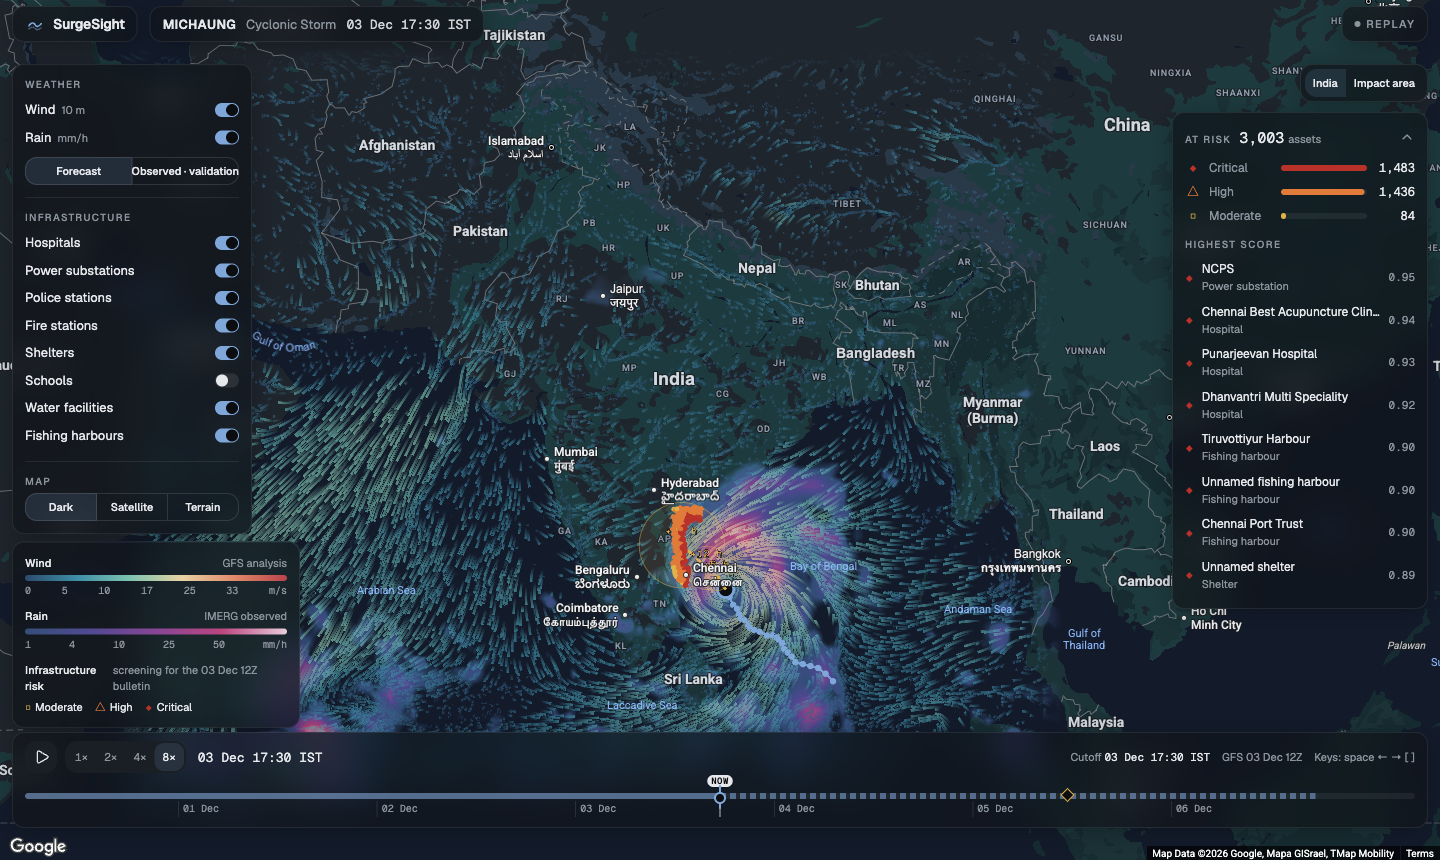
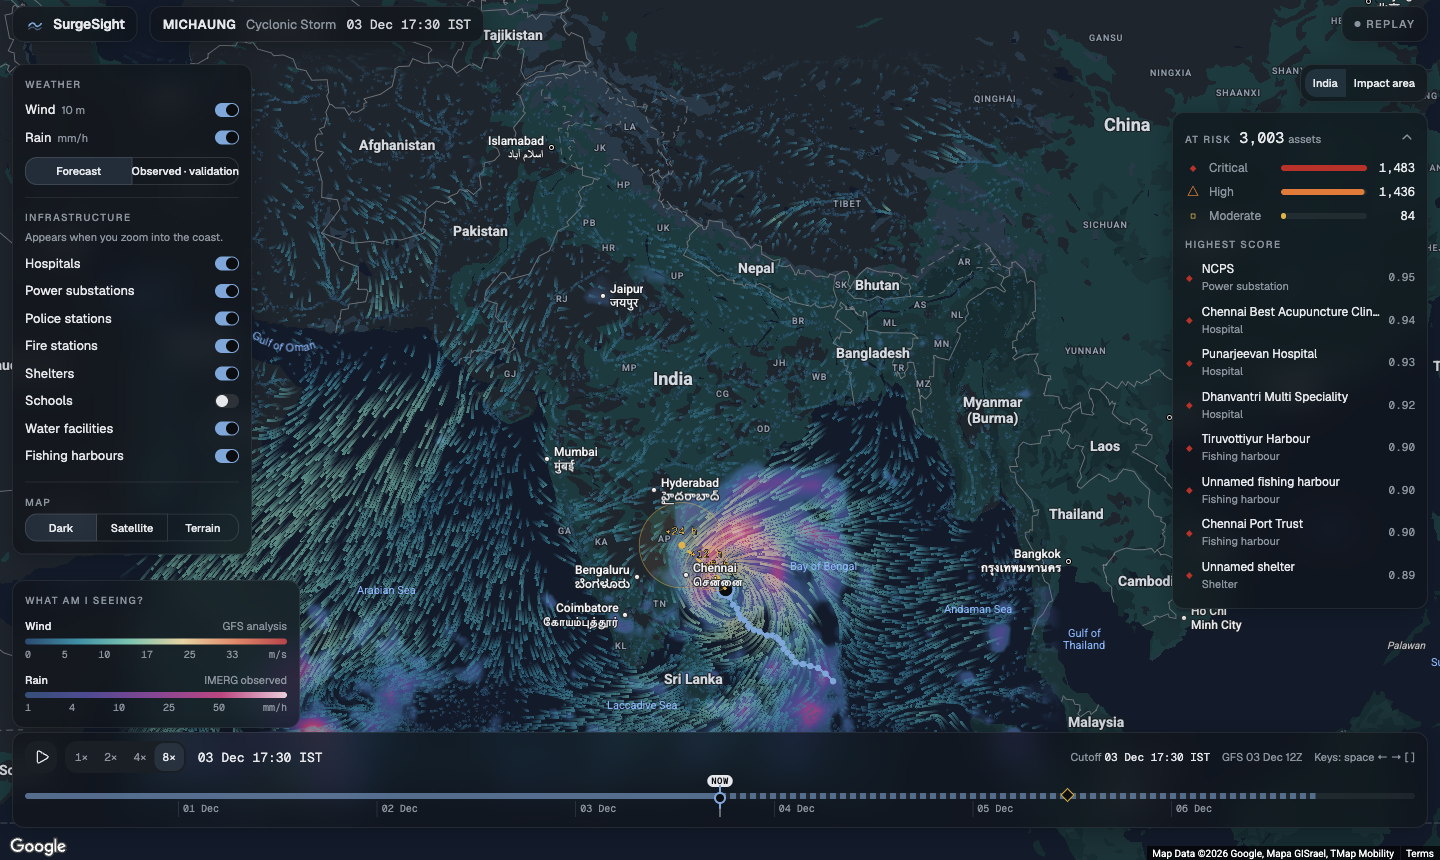
feat(web): free zoom and pan inside the national boundary, hide infrastructure until zoomed in, one key for the map
The plan now puts more storms (W6) after the first deploy.

diff --git a/frontend/src/map/MapCanvas.tsx b/frontend/src/map/MapCanvas.tsx
@@ -10,7 +10,7 @@ import { SurgeMapsOverlay } from './overlay'
 import { useUi, type Basemap } from '@/state/ui'
 import { onFrame } from '@/timeline/clock'
 import { buildLayers } from './layers'
-import { INTRO_MS, IMPACT, IMPACT_LIMIT, easeInOutCubic, fitCamera, introSeen, markIntroSeen, nationalBox } from './view'
+import { INTRO_MS, INDIA, IMPACT, IMPACT_LIMIT, easeInOutCubic, fitCamera, introSeen, markIntroSeen, nationalBox } from './view'
 import { recordFrame } from './quality'
 
 const API_KEY = import.meta.env.VITE_GOOGLE_MAPS_API_KEY as string | undefined
@@ -19,7 +19,7 @@ const MAP_ID = (import.meta.env.VITE_GOOGLE_MAP_ID as string | undefined) || 'DE
 
 const MAP_TYPE: Record<Basemap, string> = { dark: 'roadmap', satellite: 'hybrid', terrain: 'terrain' }
 
-/** Holds the camera on a fixed frame: locked on India, pannable only inside the impact area. */
+/** Frames the view and lets the user zoom and pan freely, but only inside the national boundary (or the impact limit). */
 function ViewController() {
   const map = useMap()
   const view = useUi(s => s.view)
@@ -65,7 +65,7 @@ function ViewController() {
     }
   }, [map])
 
-  // Frame the view; locked on India, pannable only inside the impact area.
+  // Frame the view. The minimum zoom is the frame itself, so the map can never leave the boundary.
   useEffect(() => {
     if (!map) return
     const div = map.getDiv()
@@ -76,20 +76,21 @@ function ViewController() {
       const cam = fitCamera(view === 'india' ? nationalBox(w, h) : IMPACT, w, h)
       map.setOptions({ restriction: null, minZoom: 1, maxZoom: 21 })
       map.moveCamera({ center: cam.center, zoom: cam.zoom })
-      map.setOptions(
-        view === 'india'
-          ? { gestureHandling: 'none', keyboardShortcuts: false, minZoom: cam.zoom, maxZoom: cam.zoom }
-          : {
-              gestureHandling: 'greedy',
-              keyboardShortcuts: false,
-              minZoom: cam.zoom,
-              maxZoom: 15,
-              restriction: { latLngBounds: { north: IMPACT_LIMIT.north, south: IMPACT_LIMIT.south, west: IMPACT_LIMIT.west, east: IMPACT_LIMIT.east }, strictBounds: false },
-            },
-      )
+      // A strict limit made Google settle on a whole zoom (5 instead of the exact frame), so only the centre is kept inside.
+      const limit = view === 'india' ? INDIA : IMPACT_LIMIT
+      map.setOptions({
+        gestureHandling: 'greedy',
+        keyboardShortcuts: false,
+        minZoom: cam.zoom,
+        maxZoom: view === 'india' ? 12 : 15,
+        restriction: { latLngBounds: { north: limit.north, south: limit.south, west: limit.west, east: limit.east }, strictBounds: false },
+      })
+      // Google can settle on a whole zoom during the first pass; moving again puts the camera on the exact frame.
+      for (const ms of [0, 400, 1200]) setTimeout(() => !useUi.getState().intro && map.getZoom() !== cam.zoom && map.moveCamera({ center: cam.center, zoom: cam.zoom }), ms)
       useUi.getState().set({ zoom: cam.zoom })
     }
     apply()
+    const idle = google.maps.event.addListenerOnce(map, 'idle', apply)
     const ro = new ResizeObserver(apply)
     ro.observe(div)
     const zl = map.addListener('zoom_changed', () => {
@@ -100,6 +101,7 @@ function ViewController() {
     })
     return () => {
       ro.disconnect()
+      idle.remove()
       zl.remove()
       unsub()
     }

diff --git a/frontend/src/panels/Legend.tsx b/frontend/src/panels/Legend.tsx
@@ -3,6 +3,7 @@ import { ChevronDown } from 'lucide-react'
 import { RAIN_RAMP, RISK, WIND_RAMP, rampCss } from '@/lib/colors'
 import { formatCycle } from '@/lib/format'
 import { useTimeline } from '@/app/queries'
+import { INFRA_ZOOM } from '@/map/assetLayers'
 import { useUi } from '@/state/ui'
 import { useClock } from '@/timeline/clock'
 import { rainField, windField, type FieldPair } from '@/weather/field'
@@ -47,17 +48,18 @@ export function Legend() {
   const { data: timeline } = useTimeline()
   // Open by default from 640 px up; on phones it starts collapsed so it does not cover the storm.
   const [open, setOpen] = useState(() => matchMedia('(min-width: 640px)').matches)
-  const anyInfra = useUi(s => Object.values(s.infra).some(Boolean))
+  const anyInfra = useUi(s => Object.values(s.infra).some(Boolean) && s.zoom >= INFRA_ZOOM)
   if (!manifest || (!wind && !rain && !anyInfra)) return null
   const ms = time * 3_600_000
   const w = windField(manifest, ms, cutoff)
   const r = rainField(manifest, ms, cutoff, rainSource)
   return (
-    <section aria-label="Legend" className="panel pointer-events-auto absolute bottom-[132px] left-3 z-10 flex w-72 flex-col gap-2.5 p-3 max-sm:bottom-[140px] max-sm:w-[calc(100%-24px)]">
+    <section aria-label="What am I seeing?" className="panel pointer-events-auto absolute bottom-[132px] left-3 z-10 flex w-72 flex-col gap-2.5 p-3 max-sm:bottom-[140px] max-sm:w-[calc(100%-24px)]">
       <button type="button" onClick={() => setOpen(o => !o)} aria-expanded={open} className="flex items-center justify-between text-[10px] font-medium tracking-[0.14em] text-muted-foreground uppercase sm:hidden">
-        Legend
+        What am I seeing?
         <ChevronDown className={`size-4 transition-transform ${open ? 'rotate-180' : ''}`} />
       </button>
+      <div className="hidden text-[10px] font-medium tracking-[0.14em] text-muted-foreground uppercase sm:block">What am I seeing?</div>
       <div className={`flex flex-col gap-2.5 ${open ? '' : 'max-sm:hidden'}`}>
       {wind && (
         <Scale title="Wind" unit="m/s" stops={WIND_RAMP.map(([v]) => v)} gradient={rampCss(WIND_RAMP)} note={sourceLabel(w, 'wind')} warn={!w} />
@@ -75,7 +77,7 @@ export function Legend() {
       {anyInfra && (
         <div>
           <div className="flex items-baseline justify-between text-[11px]">
-            <span className="font-medium">Infrastructure risk</span>
+            <span className="font-medium">Hospitals, power, police… risk</span>
             <span className="text-muted-foreground">screening for the {timeline ? formatCycle(Date.parse(timeline.demo_cutoff.replace(' ', 'T') + 'Z')) : ''} bulletin</span>
           </div>
           <div className="mt-1 flex gap-3 text-[11px]">

diff --git a/frontend/src/map/assetLayers.ts b/frontend/src/map/assetLayers.ts
@@ -8,6 +8,8 @@ import { useUi } from '@/state/ui'
 
 /** Above this zoom the markers become glyphs; below it they are small dots so the coast reads as a patch. */
 export const MARKER_ZOOM = 7
+/** Below this zoom the infrastructure is hidden, so the national view shows weather only. */
+export const INFRA_ZOOM = 6
 
 const hover = (group: AssetGroup) => (info: { index: number }) => {
   const i = info.index >= 0 ? group.indices[info.index] : -1
@@ -42,6 +44,7 @@ export function buildAssetLayers(): Layer[] {
   const { data } = assetsStore.getState()
   if (!data) return []
   const { infra, zoom } = useUi.getState()
+  if (zoom < INFRA_ZOOM) return []
   const icons = zoom >= MARKER_ZOOM
   const atlas = icons ? assetIconAtlas() : null
   const layers: Layer[] = []

diff --git a/frontend/src/panels/LayerCard.tsx b/frontend/src/panels/LayerCard.tsx
@@ -68,6 +68,7 @@ export function LayerCard() {
 
       <div className="my-3 h-px bg-[var(--hairline)]" />
       <Heading>Infrastructure</Heading>
+      <p className="mb-1 text-[11px] text-muted-foreground">Appears when you zoom into the coast.</p>
       {ASSET_ORDER.map(t => (
         <Row key={t} label={ASSET_TYPES[t].label} checked={infra[t]} onChange={v => set({ infra: { ...infra, [t]: v } })} />
       ))}

diff --git a/docs/UI_PLAN.md b/docs/UI_PLAN.md
@@ -290,4 +290,4 @@ The dashboard is a read-only tool for **officials and responders** during a real
 
 ### 11.4 Order
 
-W1 → W2 → W3 → W4 → W5 → W6 (Fani, then Biparjoy, then Amphan) → W7 → W8 → W9 → W10. The alert zones (W3) and the Why button (W4) are what make the app useful in an event, so they come before adding more storms.
+W1 → W2 → W3 → W4 → W5 → W7 → W8 → W9 → W10 → W6 (Fani, then Biparjoy, then Amphan). The alert zones (W3) and the Why button (W4) are what make the app useful in an event. By owner decision (2026-09-30) W6 moves after the first deploy: more storms are rolled out later as updates, and the landing page shows them as "coming soon" until then.
